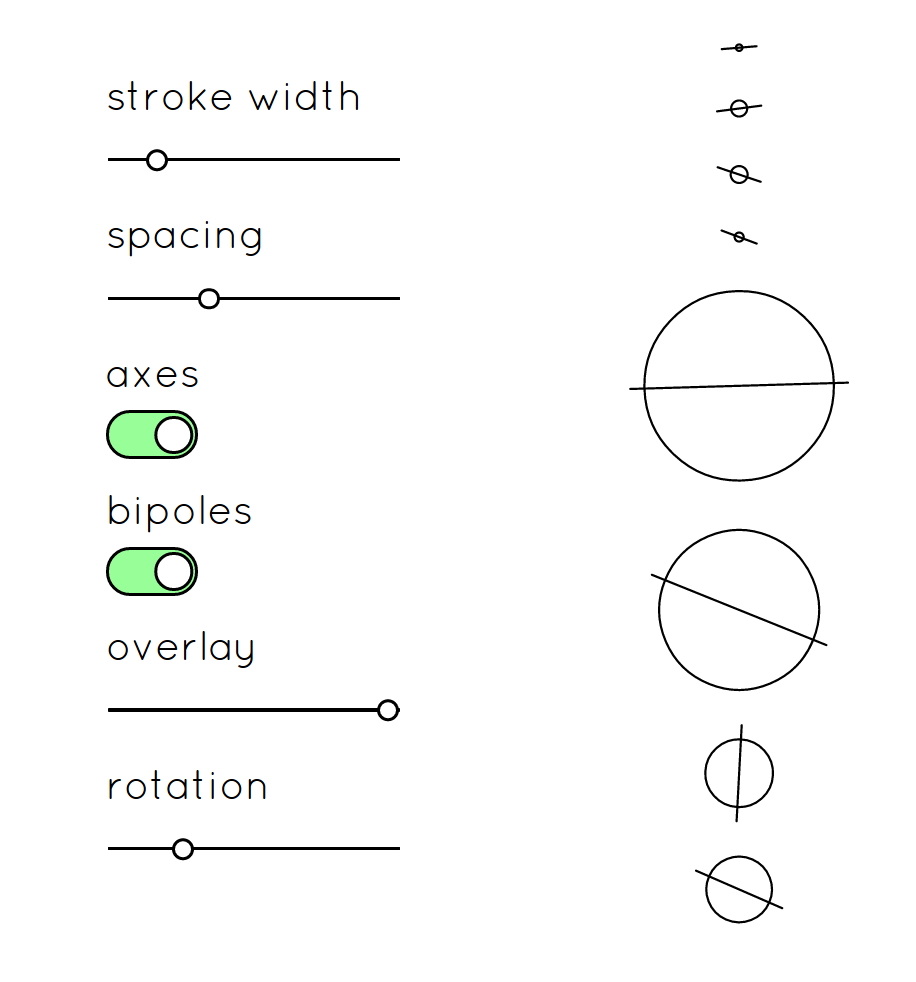
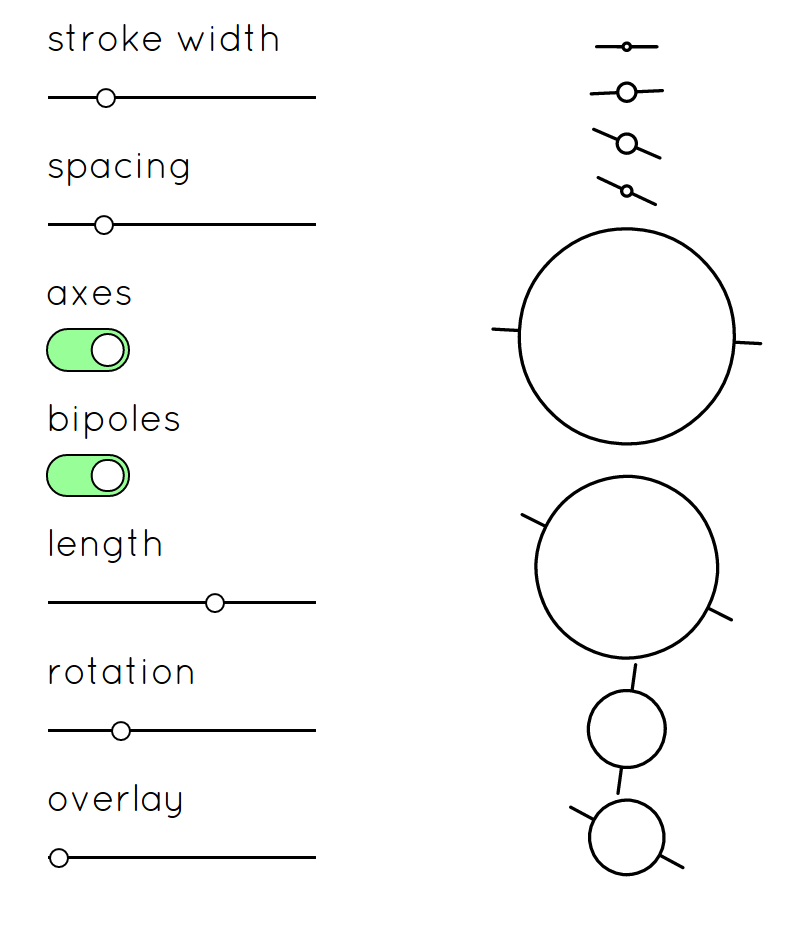
added length

diff --git a/src/App.jsx b/src/App.jsx
@@ -127,6 +127,7 @@ let App = React.createClass({
       padding: 20,
       showAxes: false,
       longAxes: false,
+      axesLength: 0.8,
       axesOverlayTransparency: 1,
       axesRotation: 0,
     };
@@ -210,20 +211,20 @@ let App = React.createClass({
             <div className={LABEL.className} style={{
               opacity: this.state.showAxes ? 1 : 0.5,
             }}>
-              overlay
+              length
             </div>
             <input type='range' className={RANGE.className}
               style={{
                 opacity: this.state.showAxes ? 1 : 0.5,
               }}
               disabled={this.state.showAxes ? false : 'disabled'}
-              min={0}
-              max={1}
+              min={-2}
+              max={4}
               step={0.01}
-              value={this.state.axesOverlayTransparency}
+              value={this.state.axesLength}
               onChange={(e) => {
                 this.setState({
-                  axesOverlayTransparency: parseFloat(e.target.value),
+                  axesLength: parseFloat(e.target.value),
                 });
               }}
             />
@@ -248,6 +249,28 @@ let App = React.createClass({
                 });
               }}
             />
+
+            <div className={LABEL.className} style={{
+              opacity: this.state.showAxes ? 1 : 0.5,
+            }}>
+              overlay
+            </div>
+            <input type='range' className={RANGE.className}
+              style={{
+                opacity: this.state.showAxes ? 1 : 0.5,
+              }}
+              disabled={this.state.showAxes ? false : 'disabled'}
+              min={0}
+              max={1}
+              step={0.01}
+              value={this.state.axesOverlayTransparency}
+              onChange={(e) => {
+                this.setState({
+                  axesOverlayTransparency: parseFloat(e.target.value),
+                });
+              }}
+            />
+
           </div>
 
           <PlanetGraphic style={{

diff --git a/src/PlanetGraphic.jsx b/src/PlanetGraphic.jsx
@@ -31,18 +31,23 @@ let PlanetGraphic = React.createClass({
       strokeWidth: 1,
       showAxes: false,
       longAxes: false,
+      axesLength: 0.8,
       axesOverlayTransparency: 1,
       axesRotation: 0,
     };
   },
+
   render: function () {
     let {
       padding,
+      axesLength,
+      axesRotation,
+      axesOverlayTransparency,
     } = this.props;
     padding = parseFloat(padding);
 
     let {
-      strokeWidth
+      strokeWidth,
     } = this.props.style;
 
     let height = 0;
@@ -60,15 +65,15 @@ let PlanetGraphic = React.createClass({
         }}
         markerEnd='url(#triangle)'
         points={`${0},${
-          this.props.longAxes ? -radius - padding*0.3 : 0
-        } ${0},${radius+padding*0.3}`}
+          this.props.longAxes ? -radius - padding*0.5*axesLength : 0
+        } ${0},${radius+padding*0.5*axesLength}`}
       />;
 
       let result = (
         <g key={planet.get('name')}
-          transform={`translate(${50},${height}) rotate(${this.props.axesRotation + planet.get('axialTilt')})`}
+          transform={`translate(${50},${height}) rotate(${axesRotation + planet.get('axialTilt')})`}
           style={{
-            fill: `rgba(255,255,255,${1-this.props.axesOverlayTransparency})`,
+            fill: `rgba(255,255,255,${1-axesOverlayTransparency})`,
           }}
         >
           {axis}

diff --git a/src/main.jsx b/src/main.jsx
@@ -28,7 +28,7 @@ window.addEventListener('load', () => {
     , document.getElementById('main'));
   });
 
-  page.base(process.env.BASEPATH);
+  page.base(process.env.BASEPATH || '');
 
   page.start();
 });

diff --git a/README.md b/README.md
@@ -1,5 +1,5 @@
 <p align="center">
-  <a href="http://namuol.github.io/planetatt/">
+  <a href="http://localhost:3000/?strokeWidth=1.22&padding=10.95&showAxes=true&longAxes=true&axesLength=1.8&axesOverlayTransparency=0&axesRotation=90">
     <img src="https://raw.githubusercontent.com/namuol/planetatt/master/screenshot.png" width=500/>
   </a>
 </p>
